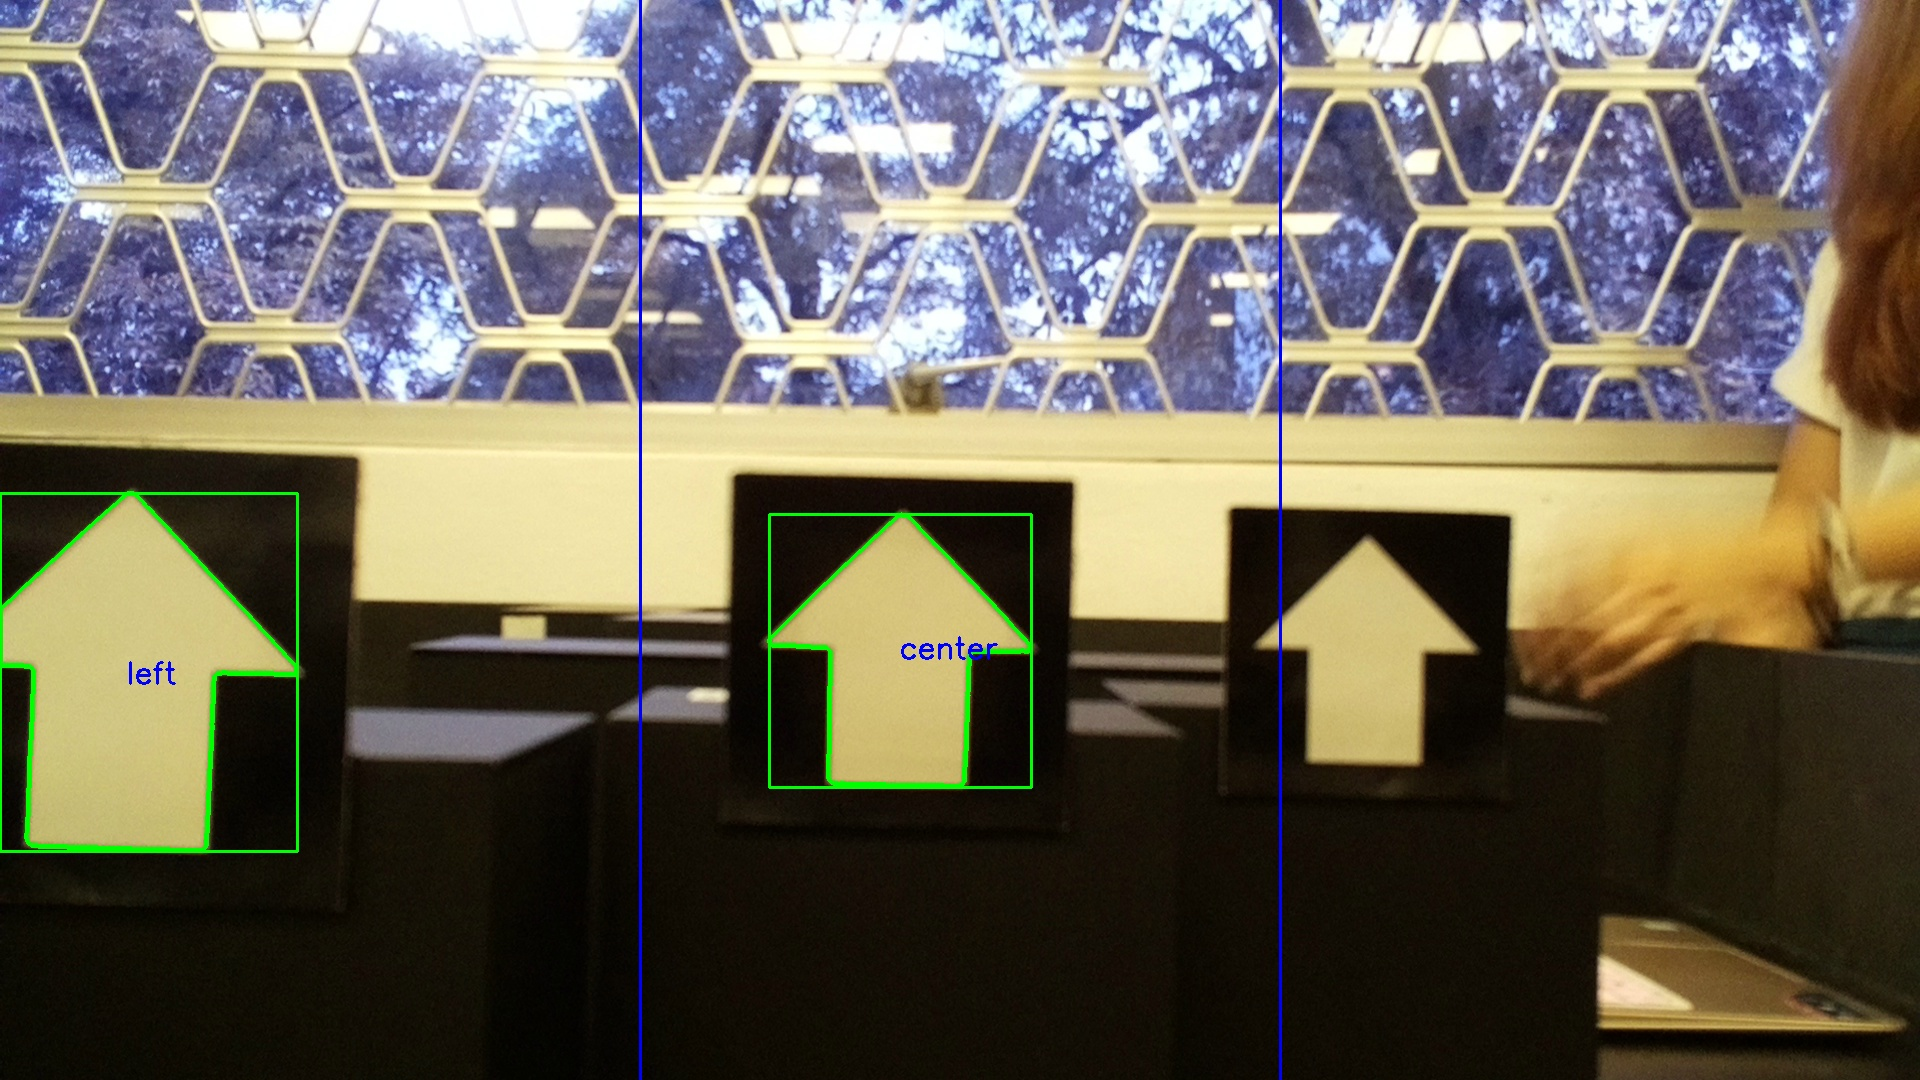
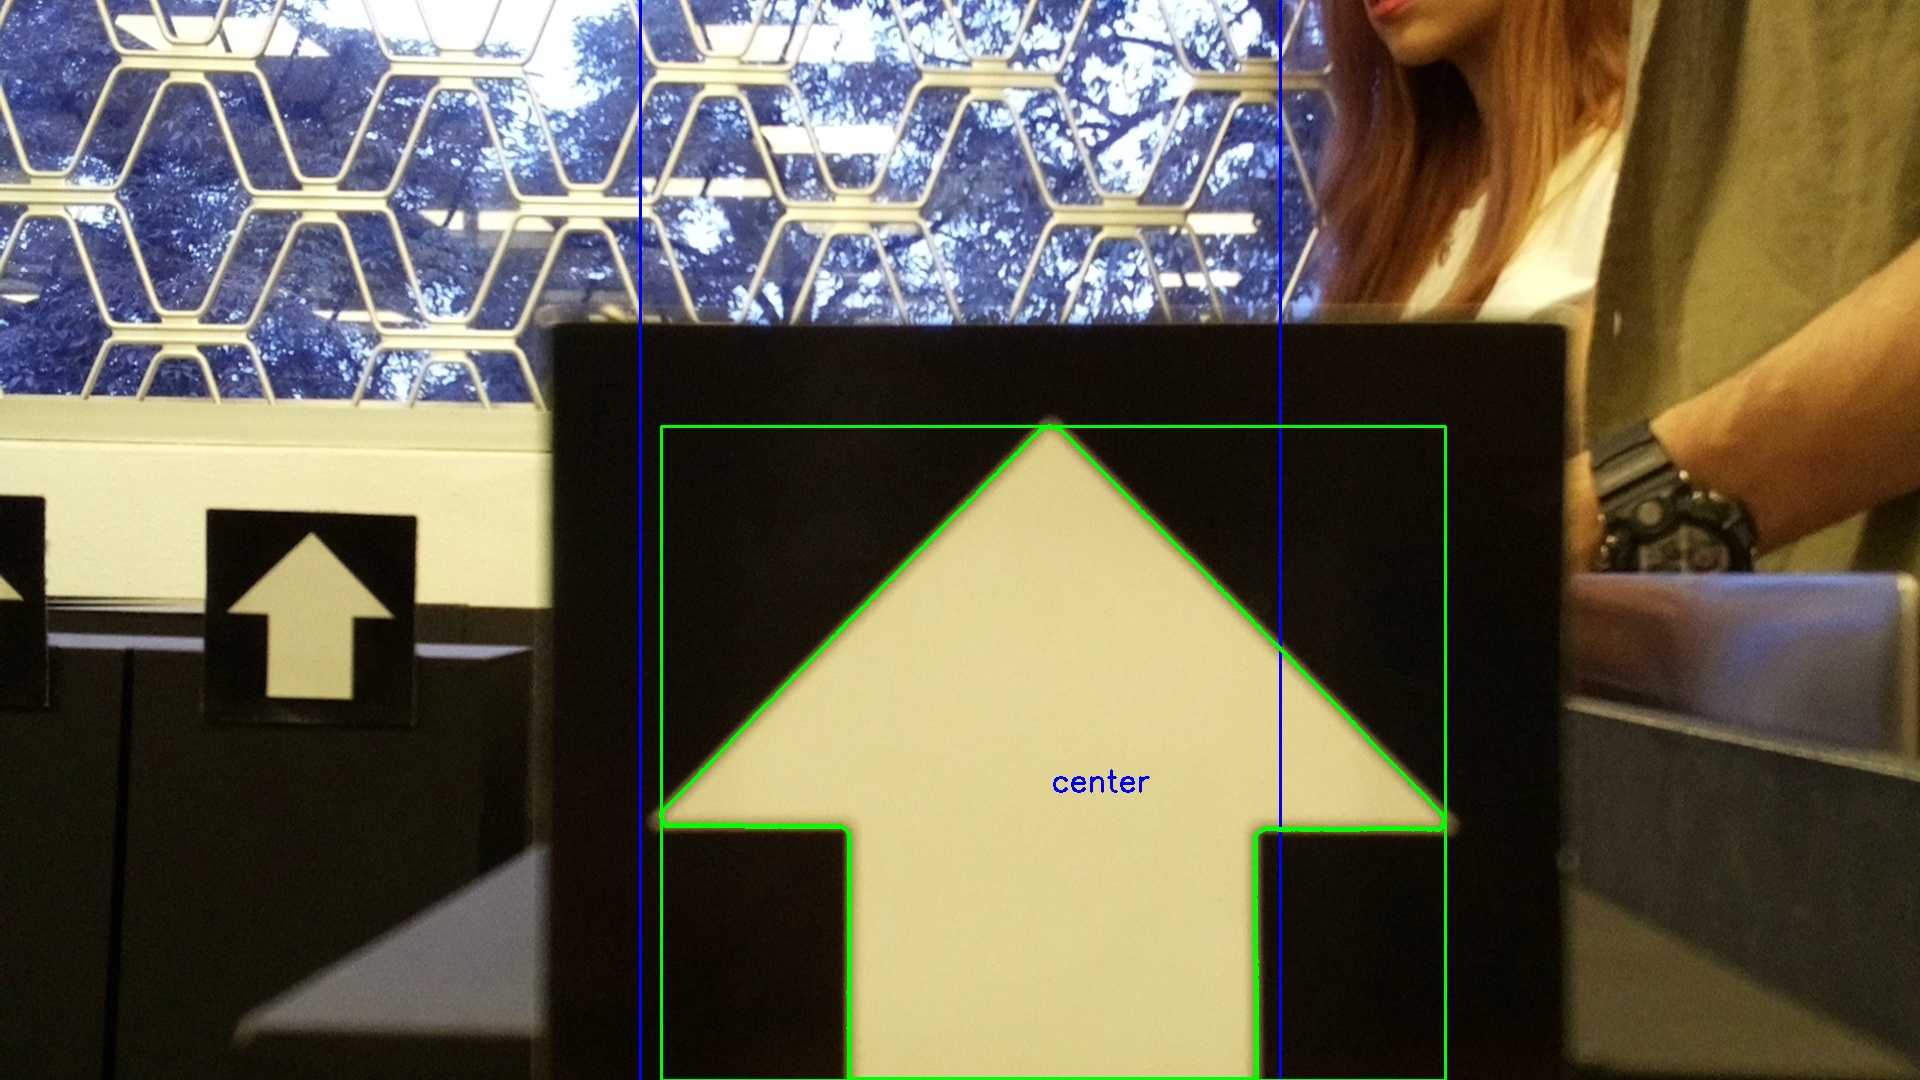
Arrow Contour

diff --git a/opencv/arrow_contour.py b/opencv/arrow_contour.py
@@ -1,10 +1,11 @@
 import numpy
 import cv2 as cv
-import imutils
 from matplotlib import pyplot as plt
+import time
 
 def main():
 
+    t0 = time.time()
     arrows = []
     cam = cv.VideoCapture(0)
     cam.set(3, 1280)
@@ -16,73 +17,10 @@ def main():
     gray1 = cv.cvtColor(img1, cv.COLOR_BGR2GRAY)
     ret1, th1 = cv.threshold(gray1, 0, 255, cv.THRESH_BINARY + cv.THRESH_OTSU)
     cnts1 = cv.findContours(th1, cv.RETR_EXTERNAL, cv.CHAIN_APPROX_SIMPLE)
-    cnts1 = cnts1[0] if imutils.is_cv2() else cnts1[1]
-
-    # #loop
-    # while True:
-    #     #for video
-    #     _, img = cam.read()
-    #
-    #     blur = cv.GaussianBlur(img, (5, 5), 2)
-    #     gray = cv.cvtColor(blur, cv.COLOR_BGR2GRAY)
-    #     imgX = gray.shape[1]
-    #     imgY = gray.shape[0]
-    #     imgArea = imgX * imgY
-    #     ret, th = cv.threshold(gray, 0, 255, cv.THRESH_BINARY + cv.THRESH_OTSU)
-    #     cnts = cv.findContours(th, cv.RETR_EXTERNAL, cv.CHAIN_APPROX_SIMPLE)
-    #     cnts = cnts[0] if imutils.is_cv2() else cnts[1]
-    #     cv.line(img, (int(imgX / 3), 0), (int(imgX / 3), 1080), (255, 0, 0), 2)
-    #     cv.line(img, (int(2 * imgX / 3), 0), (int(2 * imgX / 3), 1080), (255, 0, 0), 2)
-    #
-    #     for (i, c) in enumerate(cnts):
-    #         M = cv.moments(c)
-    #         if M["m00"] != 0:
-    #             cx = int(M["m10"] / M["m00"])
-    #             cy = int(M["m01"] / M["m00"])
-    #             if imgX / 3 < cx < 2 * (imgX / 3):
-    #                 a = "center"
-    #             elif cx < imgX / 3:
-    #                 a = "left"
-    #             else:
-    #                 a = "right"
-    #         x, y, w, h = cv.boundingRect(c)
-    #         peri = cv.arcLength(c, True)
-    #         approx = cv.approxPolyDP(c, 0.01 * peri, True)
-    #         hull = cv.convexHull(c)
-    #         hullArea = float(cv.contourArea(hull))
-    #         objectAreaRatio = hullArea / imgArea
-    #         if (6 <= len(approx) <= 8 and cv.matchShapes(cnts1[0], c, 1, 0.0) < 0.25):
-    #             if objectAreaRatio > 0.13:
-    #                 arrows.append((0, a))
-    #                 print(objectAreaRatio)
-    #                 cv.drawContours(img, [c], -1, (0, 255, 0), 3)
-    #                 cv.rectangle(img, (x, y), (x + w, y + h), (0, 255, 0), 2)
-    #                 cv.putText(img, a, (cx, cy), cv.FONT_HERSHEY_SIMPLEX,
-    #                            1.0, (255, 0, 0), 2)
-    #             elif objectAreaRatio > 0.07:
-    #                 arrows.append((10, a))
-    #                 print(objectAreaRatio)
-    #                 cv.drawContours(img, [c], -1, (0, 255, 0), 3)
-    #                 cv.rectangle(img, (x, y), (x + w, y + h), (0, 255, 0), 2)
-    #                 cv.putText(img, a, (cx, cy), cv.FONT_HERSHEY_SIMPLEX,
-    #                            1.0, (255, 0, 0), 2)
-    #             elif objectAreaRatio > 0.033:
-    #                 arrows.append((20, a))
-    #                 print(objectAreaRatio)
-    #                 cv.drawContours(img, [c], -1, (0, 255, 0), 3)
-    #                 cv.rectangle(img, (x, y), (x + w, y + h), (0, 255, 0), 2)
-    #                 cv.putText(img, a, (cx, cy), cv.FONT_HERSHEY_SIMPLEX,
-    #                            1.0, (255, 0, 0), 2)
-    #             elif objectAreaRatio > 0.02:
-    #                 arrows.append((30, a))
-    #                 print(objectAreaRatio)
-    #                 cv.drawContours(img, [c], -1, (0, 255, 0), 3)
-    #                 cv.rectangle(img, (x, y), (x + w, y + h), (0, 255, 0), 2)
-    #                 cv.putText(img, a, (cx, cy), cv.FONT_HERSHEY_SIMPLEX,
-    #                            1.0, (255, 0, 0), 2)
+    cnts1 = cnts1[1]
 
     #read image
-    img = cv.imread('test/image20l30c40r.jpg', cv.IMREAD_UNCHANGED)
+    img = cv.imread('test/image0c.jpg', cv.IMREAD_UNCHANGED)
     #image preprocessing
     blur = cv.GaussianBlur(img, (5, 5), 2)
     gray = cv.cvtColor(blur, cv.COLOR_BGR2GRAY)
@@ -96,7 +34,7 @@ def main():
     #find contours in image
     ret, th = cv.threshold(gray, 0, 255, cv.THRESH_BINARY + cv.THRESH_OTSU)
     cnts = cv.findContours(th, cv.RETR_EXTERNAL, cv.CHAIN_APPROX_SIMPLE)
-    cnts = cnts[0] if imutils.is_cv2() else cnts[1]
+    cnts = cnts[1]
 
     #for each contour found
     for (i, c) in enumerate(cnts):
@@ -118,10 +56,9 @@ def main():
         peri = cv.arcLength(c, True)
         approx = cv.approxPolyDP(c, 0.01 * peri, True)
         #find area of the object
-        hull = cv.convexHull(c)
-        hullArea = float(cv.contourArea(hull))
+        objectArea = float(cv.contourArea(c))
         #find ratio of the area of object to the area of whole image
-        objectAreaRatio = hullArea/imgArea
+        objectAreaRatio = objectArea/imgArea
 
         #test for 10cm left and right (half arrow)
         # if (3 <= len(approx) <= 5 and 0.003 < objectAreaRatio < 0.06
@@ -137,24 +74,30 @@ def main():
         #if contour matches any of the conditions we are looking for, we append the distance and location
         #condition: 6-8 edges; matches given shape up to 0.25 likeliness; object to image area ratio
         if (6 <= len(approx) <= 8 and cv.matchShapes(cnts1[0], c, 1, 0.0) < 0.25):
-            if objectAreaRatio > 0.13:
+            if objectAreaRatio > 0.127:
                 arrows.append((0, a))
-                #print(objectAreaRatio)
+                print(objectAreaRatio)
                 cv.drawContours(img, [c], -1, (0, 255, 0), 3)
                 cv.rectangle(img, (x, y), (x + w, y + h), (0, 255, 0), 2)
                 cv.putText(img, a, (cx, cy), cv.FONT_HERSHEY_SIMPLEX,
                             1.0, (255, 0, 0), 2)
-            elif objectAreaRatio > 0.07:
+            elif objectAreaRatio > 0.055:
                 arrows.append((10, a))
-
-            elif objectAreaRatio > 0.033:
+                print(objectAreaRatio)
+                cv.drawContours(img, [c], -1, (0, 255, 0), 3)
+                cv.rectangle(img, (x, y), (x + w, y + h), (0, 255, 0), 2)
+                cv.putText(img, a, (cx, cy), cv.FONT_HERSHEY_SIMPLEX,
+                           1.0, (255, 0, 0), 2)
+            elif objectAreaRatio > 0.027:
                 arrows.append((20, a))
+                print(objectAreaRatio)
                 cv.drawContours(img, [c], -1, (0, 255, 0), 3)
                 cv.rectangle(img, (x, y), (x + w, y + h), (0, 255, 0), 2)
                 cv.putText(img, a, (cx, cy), cv.FONT_HERSHEY_SIMPLEX,
                             1.0, (255, 0, 0), 2)
-            elif objectAreaRatio > 0.02:
+            elif objectAreaRatio > 0.015:
                 arrows.append((30, a))
+                print(objectAreaRatio)
                 cv.drawContours(img, [c], -1, (0, 255, 0), 3)
                 cv.rectangle(img, (x, y), (x + w, y + h), (0, 255, 0), 2)
                 cv.putText(img, a, (cx, cy), cv.FONT_HERSHEY_SIMPLEX,
@@ -166,6 +109,9 @@ def main():
     cv.imwrite('houghlines3.jpg', img)
     # cv.imshow('', img)
     # cv.waitKey(1)
+
+    t1 = time.time()
+    print(t1-t0, "Seconds")
 
 if __name__ == '__main__':
     main()
